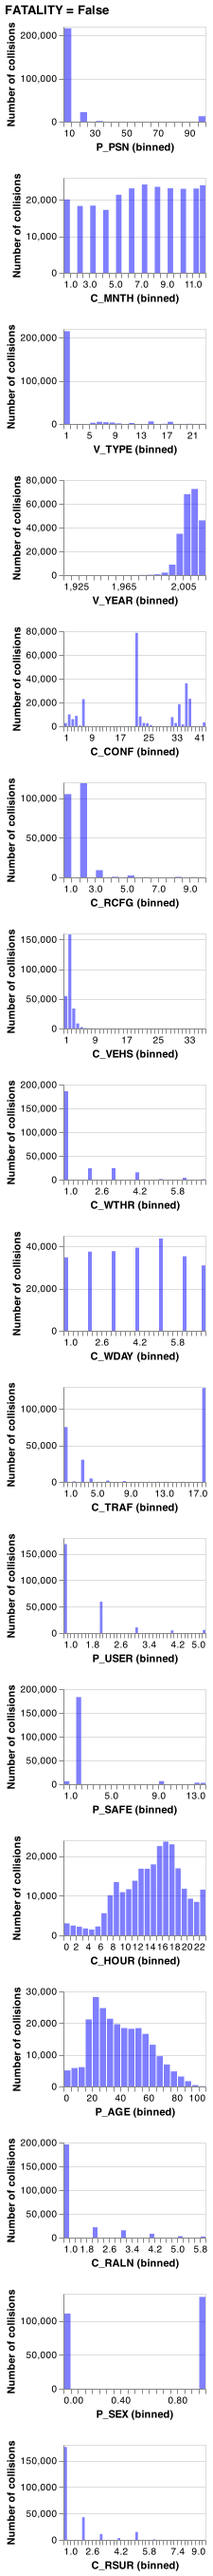
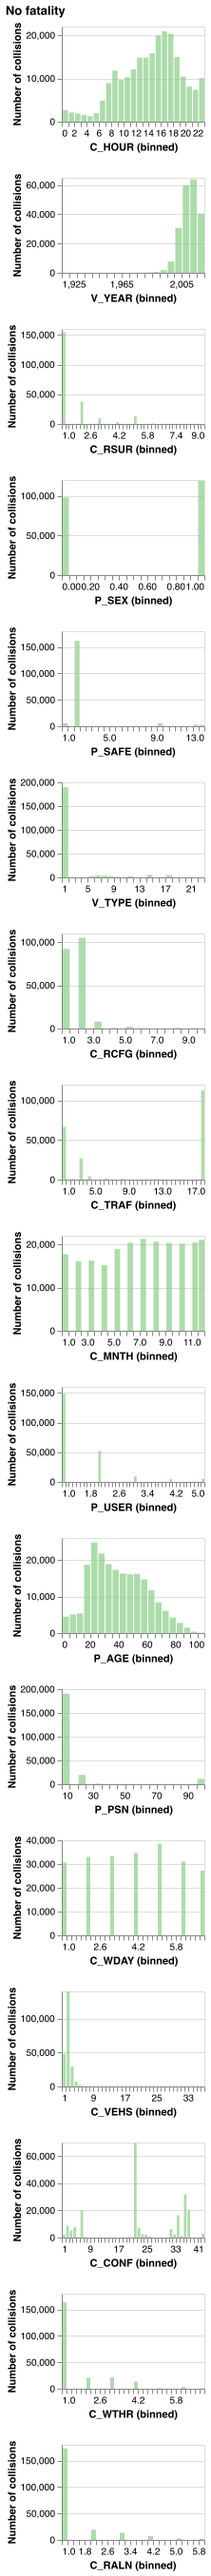
Update EDA script accordingly

diff --git a/src/eda.py b/src/eda.py
@@ -32,44 +32,44 @@ if __name__ == "__main__":
     )
     
     # Converts values of P_SEX column into numeric
-    sex = {'M': 1, 'F': 0, 'missing': 'missing'}
-    train_df['P_SEX'] = [sex[item] for item in train_df['P_SEX']]
+    sex = {"M": 1, "F": 0, "missing": "missing"}
+    train_df["P_SEX"] = [sex[item] for item in train_df["P_SEX"]]
     
     # Creates the list of features to feed into distribution plots
-    features = list(set(train_df.columns.values) - set(['index', 'FATALITY']))
+    features = list(set(train_df.columns.values) - set(["index", "FATALITY"]))
 
-    # Creates and saves distribution plots when Fatality = False
+    # Creates distribution plots when Fatality = 0
     Chart_False = (
         alt.Chart(train_df)
-        .mark_bar(opacity=0.5)
+        .mark_bar(opacity=0.7)
         .encode(
             x=alt.X(alt.repeat("row"), type="quantitative", bin=alt.Bin(maxbins=40)),
             y=alt.Y("count()", title="Number of collisions"),
-            color=alt.Color("FATALITY", scale=alt.Scale(range=["blue"]), legend=None))
+            color=alt.Color("FATALITY", scale=alt.Scale(scheme="category20c"), legend=None))
         .properties(width=150, height=100)
         .repeat(
             row=features,
-            title="FATALITY = False")
+            title="No fatality")
         .resolve_scale(y="independent")
-        .transform_filter(alt.FieldOneOfPredicate(field="FATALITY", oneOf=[False]))
+        .transform_filter(alt.FieldOneOfPredicate(field="FATALITY", oneOf=[0]))
     )
     
     Chart_False.save(f"{save_path}Distribution_of_no_fatality.png")
     
-    # Creates and saves distribution plots when Fatality = True
+    # Creates distribution plots when Fatality = 1
     Chart_True = (
         alt.Chart(train_df)
-        .mark_bar(opacity=0.5)
+        .mark_bar(opacity=0.7)
         .encode(
             x=alt.X(alt.repeat("row"), type="quantitative", bin=alt.Bin(maxbins=40)),
             y=alt.Y("count()", title="Number of collisions"),
-            color=alt.Color("FATALITY", scale=alt.Scale(range=["green"]), legend=None))
+            color=alt.Color("FATALITY", scale=alt.Scale(scheme="category20b"), legend=None))
         .properties(width=150, height=100)
         .repeat(
             row=features,
-            title="FATALITY = True")
+            title="Fatality")
         .resolve_scale(y="independent")
-        .transform_filter(alt.FieldOneOfPredicate(field="FATALITY", oneOf=[True]))
+        .transform_filter(alt.FieldOneOfPredicate(field="FATALITY", oneOf=[1]))
     )
     
     Chart_True.save(f"{save_path}Distribution_of_fatality.png")
